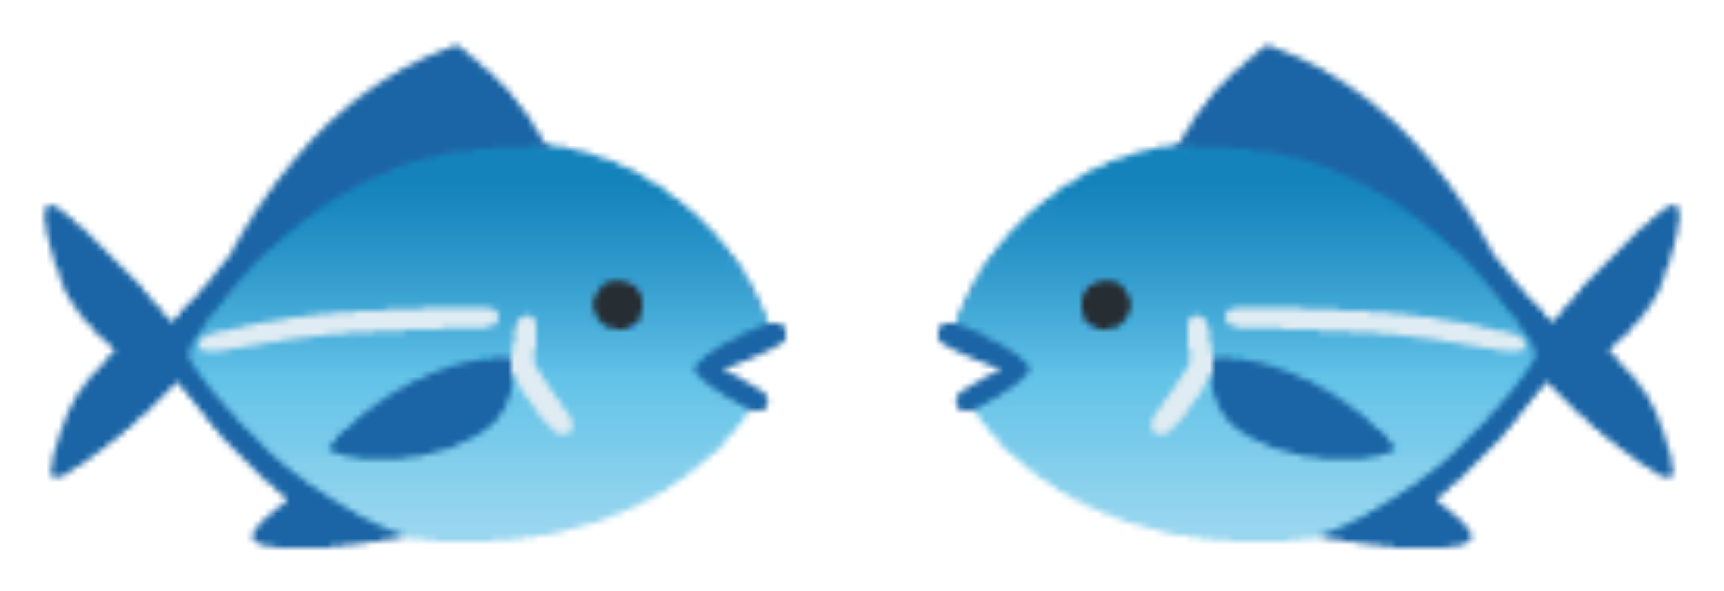
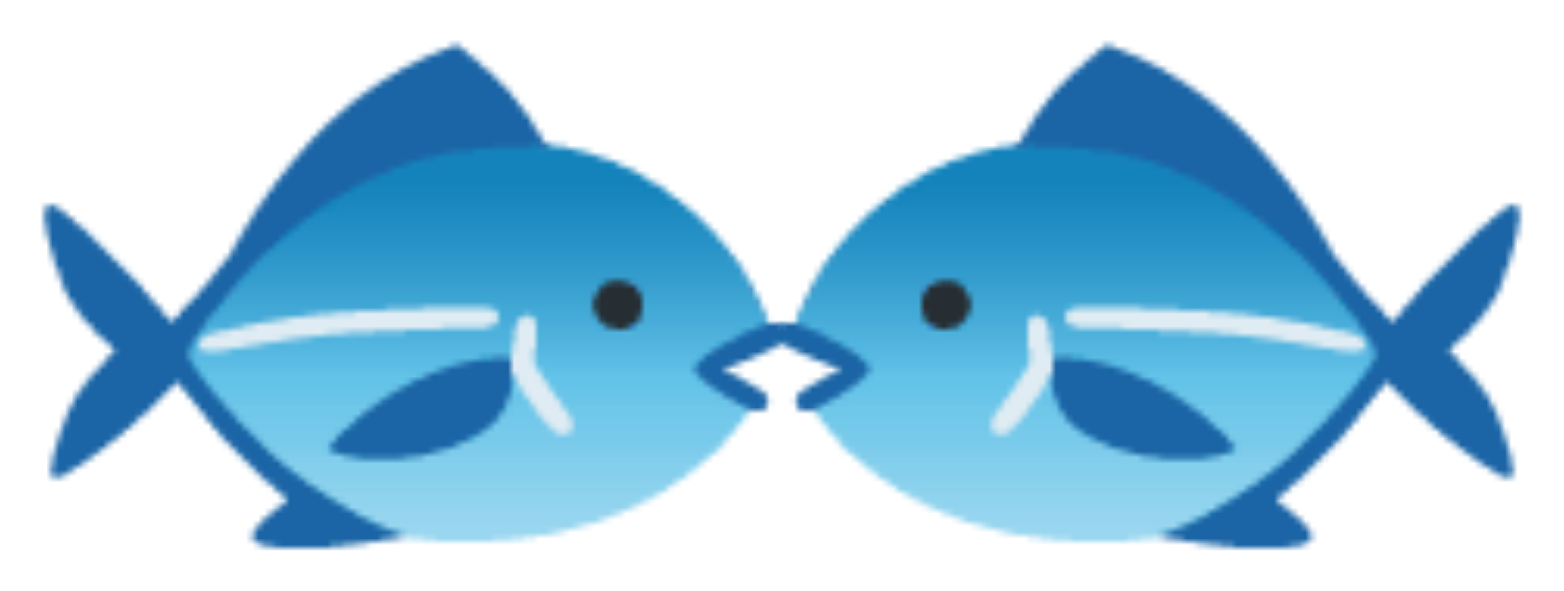
Balıklar yakınlaştırıldı
Claude-Session: https://claude.ai/code/session_01SatttGbgBLoCnk9KGLypWv

Changed region(s): [[0.0, 0.0609, 0.9821, 0.9442]]

diff --git a/tasarim/kisisel/baliklar/balik.html b/tasarim/kisisel/baliklar/balik.html
@@ -1,5 +1,5 @@
 <!doctype html><html><meta charset="utf-8"><style>
 html,body{margin:0;width:1200px;height:600px;background:transparent}
-.s{display:flex;justify-content:center;align-items:center;height:600px;gap:20px;font:340px/1 'Noto Color Emoji'}
+.s{display:flex;justify-content:center;align-items:center;height:600px;gap:0;;font:340px/1 'Noto Color Emoji'}
 .sag{display:inline-block;transform:scaleX(-1)}
-</style><body><div class="s"><span class="sag">🐟</span><span>🐟</span></div></body></html>
+</style><body><div class="s"><span class="sag">🐟</span><span style="margin-left:-60px">🐟</span></div></body></html>
